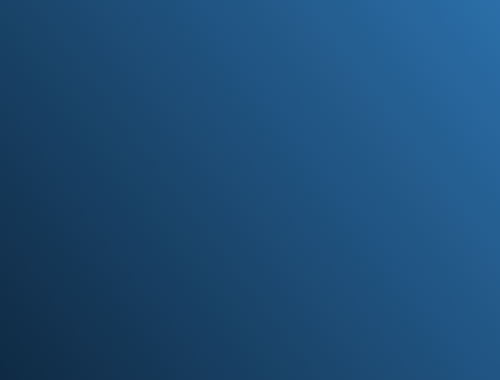
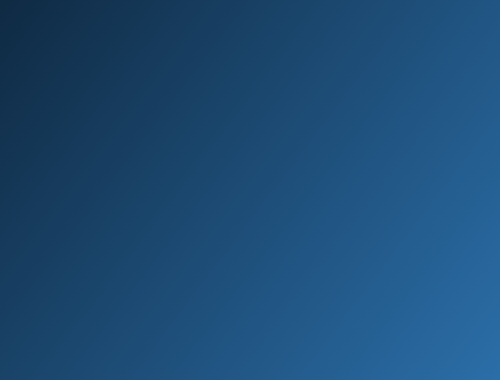
feat: adjust some art gradients

diff --git a/scripts/gen_beta_art.py b/scripts/gen_beta_art.py
@@ -209,11 +209,11 @@ COLORS = {
     "Percolate": ("#0e2a45", "#7fd4c1", "BR", "Unique"),
     "Inoculate": ("#12384f", "#8fd0e8", "BR", "Unique"),
     # Strike (Basic)
-    "Strike": ("#180209", "#942d2d", "BR", "Unique"),
+    "Strike": ("#180209", "#942d2d", "TR", "Unique"),
     # Defend (Basic)
-    "Defend": ("#0f2a43", "#2b6ea8", "TR", "Unique"),
+    "Defend": ("#0f2a43", "#2b6ea8", "BR", "Unique"),
     # Spike (Basic): the starter dose, anchored on the Poison-attack red
-    "Spike": ("#650101", "#4fbf3a", "TR", "Unique"),
+    "Spike": ("#650101", "#c05fd8", "TR", "Unique"),
     # Flask (Basic): the starter brew, anchored on the potion teal
     "Flask": ("#045062", "#d8b23a", "BR", "Unique"),
     # Nigredo (token)
